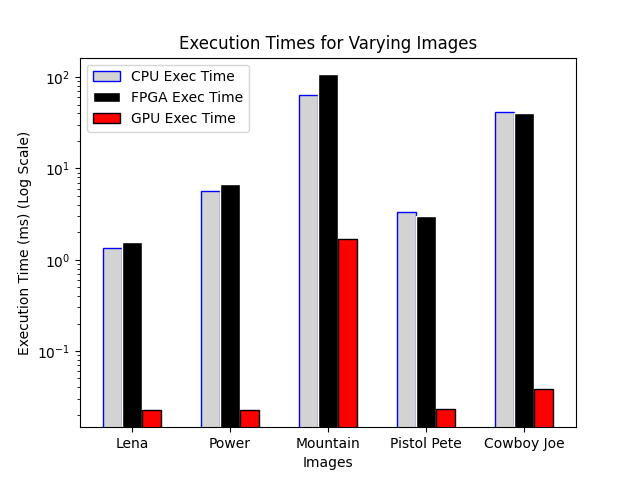
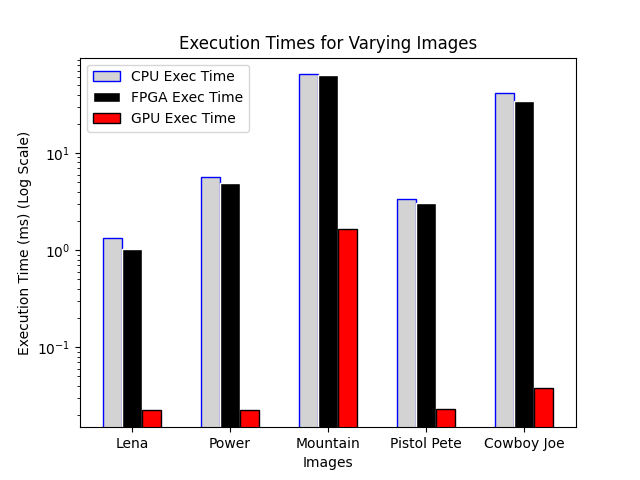
Corrected graphs-Grey Scale

diff --git a/GPU/ImageProcessing/Conv_Filter/ConvFiltCPU.cpp b/GPU/ImageProcessing/Conv_Filter/ConvFiltCPU.cpp
@@ -3,6 +3,7 @@
 void Filter(unsigned char* in, unsigned char* out, unsigned int h, unsigned int w){
 
     cout<<"Constructing Filter"<<endl;
+    auto start = high_resolution_clock::now();
     for(int i=0; i<h-2;i++){
         for(int j=0; j<w-2;j++){
             out[i*(w-2)+j]+=.0625*in[i*w+j];
@@ -16,6 +17,9 @@ void Filter(unsigned char* in, unsigned char* out, unsigned int h, unsigned int 
             out[i*(w-2)+j]+=.0625*in[(i+2)*w+j+2];
         }
     }
+    auto end = high_resolution_clock::now();
+	auto elasped_seconds = end - start;
+    cout<< "CPU Gaussian Filter execution time: "<<duration_cast<milliseconds>(elasped_seconds).count()<<" ms"<<endl;
 }
 
 

diff --git a/FPGA/Gray_Scale/graph.py b/FPGA/Gray_Scale/graph.py
@@ -27,6 +27,7 @@ SU_FPGA=data['SpeedUp FPGA'].to_numpy()
 SU_GPU=data['SpeedUp GPU'].to_numpy()
 through_FPGA=data['FPGA Throughput (MB/s)'].to_numpy()*(1/1000.0)
 through_GPU=data['GPU Throughput (GB/s)'].to_numpy()
+print(SU_FPGA)
 
 x=np.arange(len(Image))
 width =.2

diff --git a/GPU/SAXPY/Tiled_MatMult/MatrixMult.cpp b/GPU/SAXPY/Tiled_MatMult/MatrixMult.cpp
@@ -5,8 +5,8 @@ int main()
 {
 	srand((unsigned)time(NULL));
 
-	int rows = 1 << 11;
-	int cols = 1 << 11;
+	int rows = 32;
+	int cols = 32;
 	cout << "Matrix Multiplication of Size: " << rows << "x" << cols << endl;
 	float* A, * B, * C;
 

diff --git a/FPGA/Gray_Scale/README.md b/FPGA/Gray_Scale/README.md
@@ -1,11 +1,9 @@
 |Image|Height|Width|CPU exec time(ms)| FPGA exec time (ms)| GPU exec time(ms)| Memory Transfer FPGA | Memory Transfer GPU (ms)| SpeedUp FPGA | SpeedUp GPU| FPGA Throughput (MB/s) | GPU Throughput (GB/s)|
 |-----|------|-----|-----------------|--------------------|-----------------|----------------|--------------|------------------------|----------------------|----|----|
-|Lena|225|225| 1.3399 | 1.018 | .022336 |.0968 | .073792 | .858| 60.0 |909.9495| 2.7442|
-|Power| 500 | 500 | 5.647 |4.92 | .022624| .097792| .193376|.8325 | 249.6| 1293.76| 5.17127|
-|Mountain| 1536 | 2048 |  64.479 | 63.9603 | 1.667| 7.3375| 1.26704 | .6013| 1318.70| 2538.24| 9.93095|
+|Lena|225|225| 1.3399 | 1.018 | .022336 |.0968 | .073792 | 1.316| 60.0 |909.9495| 2.7442|
+|Power| 500 | 500 | 5.647 |4.92 | .022624| .097792| .193376|1.148 | 249.6| 1293.76| 5.17127|
+|Mountain| 1536 | 2048 |  64.479 | 63.9603 | 1.667| 7.3375| 1.26704 | 1.01| 1318.70| 2538.24| 9.93095|
 |Pistol Pete|300|540|3.328| 3.0429| .022912| .16425| .148| 1.0937|145.25| 1379.01| 4.3784|
 |Cowboy Joe| 1600 | 1200 | 41.828 | 34.5088 | .037952 |2.0798 | .78256| 1.2121| 1014.387| 1852.3| 9.81394|
 
-![fig_1](https://user-images.githubusercontent.com/84815326/231915021-62254399-5821-4047-8d45-8e1e90fcb9bb.png)
-![fig_2](https://user-images.githubusercontent.com/84815326/231915022-ddd357b4-80f6-4b0e-be0c-a238d250c119.png)
-![fig_3](https://user-images.githubusercontent.com/84815326/231915025-bf85b276-fdc4-4704-acd8-bf2705b36c2f.png)
+
